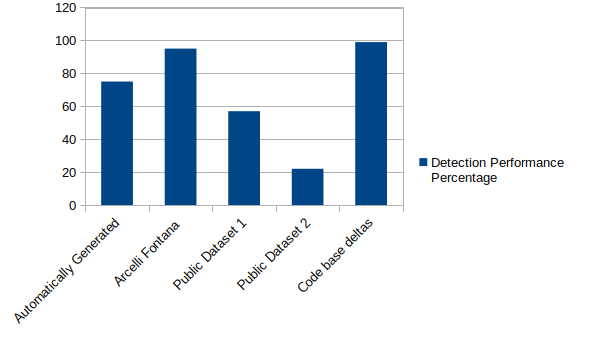
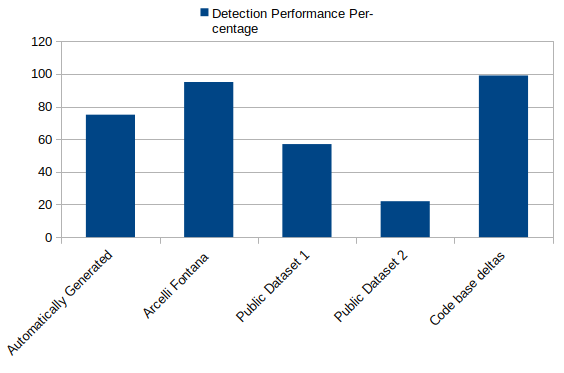
updates on research proposal

diff --git a/research proposal/ResearchProposal.tex b/research proposal/ResearchProposal.tex
@@ -1,6 +1,6 @@
 \documentclass[conference]{IEEEtran}
 %\renewcommand{\thesubsection}{\thesection.\alph{subsection}}
-
+\renewcommand{\floatpagefraction}{.8}%
 %\addtolength{\oddsidemargin}{-.875in}
 %\addtolength{\evensidemargin}{-.875in}
 %\addtolength{\textwidth}{1.75in}
@@ -18,6 +18,8 @@
 \usepackage{filecontents,lipsum}
 \usepackage[noadjust]{cite}
 \usepackage{listings}
+
+
 
 \begin{document}
 %\raggedright
@@ -48,18 +50,20 @@ This research will compare training datasets and code smell definitions for perf
 
 Figure \ref{fig:ts} show the "potential" results of comparison by algorithm. 
 
-\begin{figure*}[ht]
-  \centerline{\includegraphics[width=\linewidth]{teaser.png}}
-  \caption{Performance of code smell detection algorithm by training dataset}
+\begin{figure*}[ht]{
+  \includegraphics[width=\columnwidth]{teaser.png}}
+  \caption{Training Data Performance}
   \label{fig:ts}
 \end{figure*} 
 
 \section{The Approach}
 The approach to this research will be to compare training datasets for performance in detecting code smells.
+Common existing public datasets will be compared using the highest performing algorithms to determine which has the best performance.
 
 \section{Experimental Design}
-
+A formal section on Experimental Design and datasets 
 \section{Hypothesis and Stastical Testing}
+A formal section on the hypothesis and Statistical Testing for that hypothesis for your given design and the outcomes of the experiments.
 
 \section{Research Plan}
 
@@ -67,7 +71,7 @@ The approach to this research will be to compare training datasets for performan
 
 %Relevan papers are referenced in the bibliography below. 
 %\nocite{*}
-\clearpage
+%\clearpage
 
 
 \bibliographystyle{IEEEtran}
